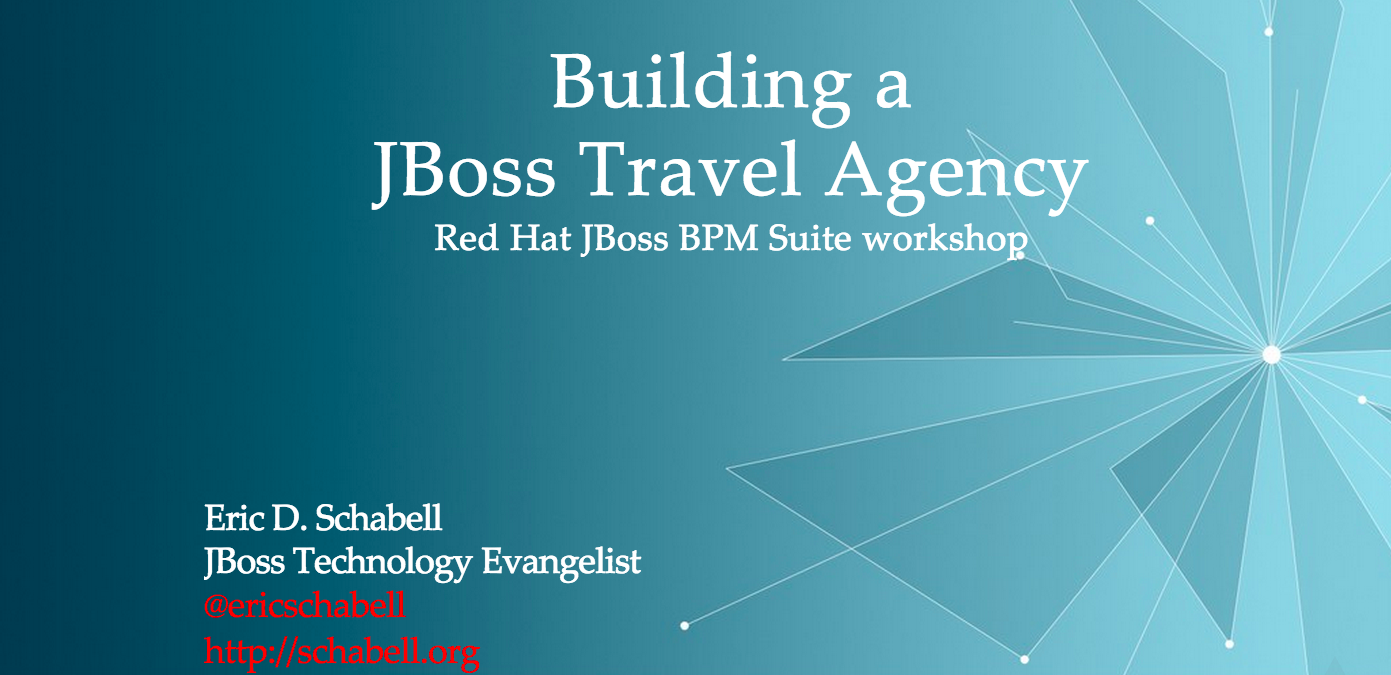
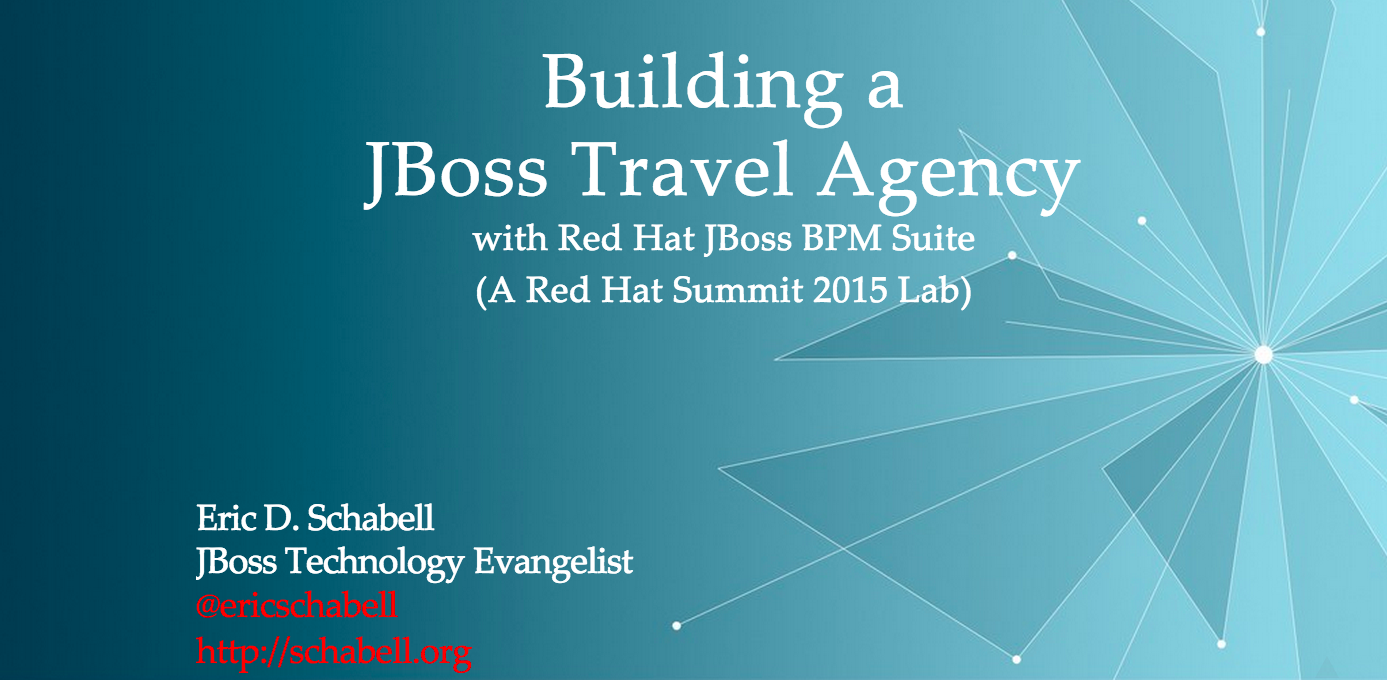
Adjusted title.

diff --git a/index.html b/index.html
@@ -44,9 +44,10 @@
 			<div class="slides">
                 <section data-background="images/rh-images/rh-bg-start.jpg" data-background-size="cover" data-background-position="center bottom">
                     <div style="width: 1056px; height: 450px; color: white">
-						<h2 style="color: white">Building a</h2>
-                        <h2 style="color: white">JBoss Travel Agency</h2>
-                        <h4 style="color: white">Red Hat JBoss BPM Suite workshop</h4>
+						<h2 style="color: white;">Building a</h2>
+                        <h2 style="color: white;">JBoss Travel Agency</h2>
+                        <h4 style="color: white;">with Red Hat JBoss BPM Suite</h4>
+                        <h5 style="color: white;">(A Red Hat Summit 2015 Lab)</h5>
                     </div>
                     <div style="width: 600px; height: 300px; text-align: left; color: white">
                         Eric D. Schabell<br/>
